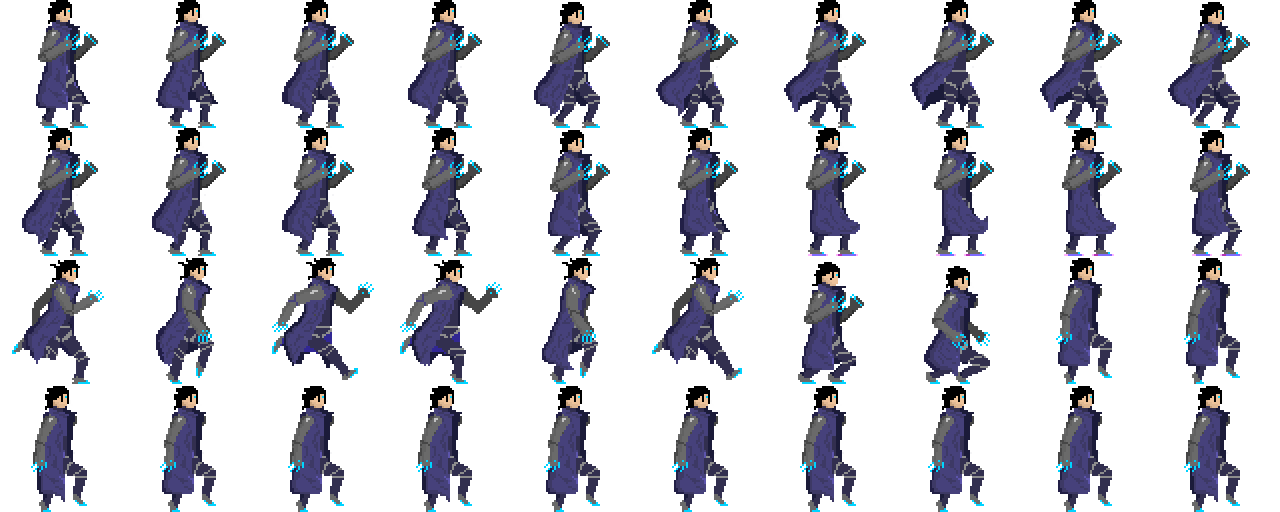
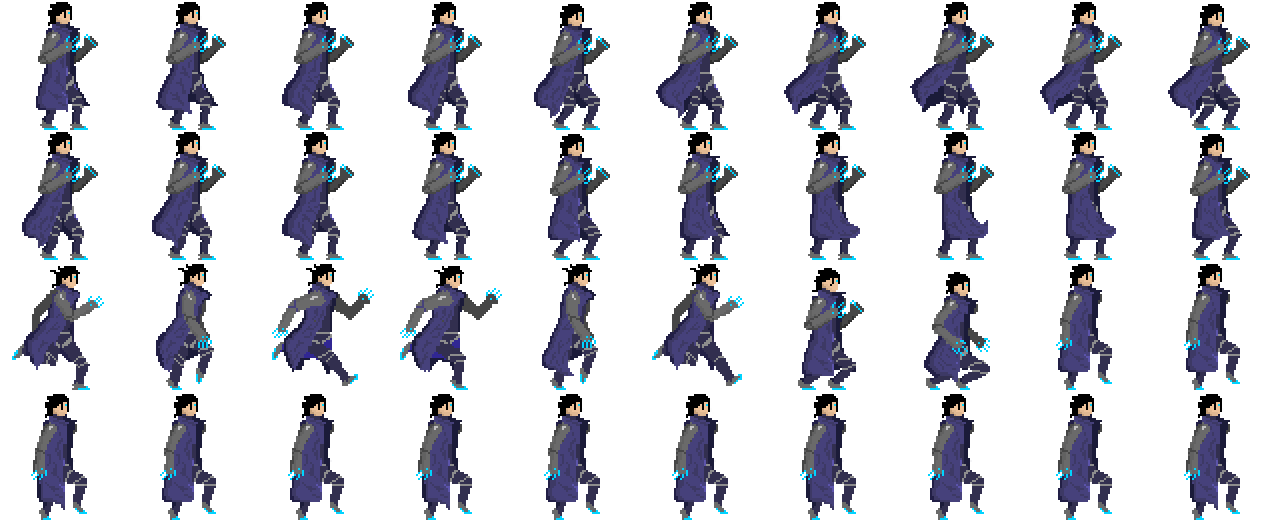
Pulse Mechanic implemented

diff --git a/Classes/Player.cpp b/Classes/Player.cpp
@@ -32,70 +32,77 @@ Retry::Player::Player(std::string path, cocos2d::Vec2 pos) {
 
 	// HACK: Read in data from file maybe?
 	Attack* atk = new Attack();
+	atk->setDamage(10);
 	atk->setDelay(0.0f);
-	atk->setDuration(1.0f);
+	atk->setDuration(0.3f);
 	atk->setRecovery(0.05f);
-	atk->setKnockBackAmount(3);
+	atk->setKnockBackAmount(1);
 	atk->setKnockBackDirection(Vec2(1, 0.25f));
 	atk->getHitBox()->addRect(Vec2(64, 64), cocos2d::Size(100, 50));
 	atk->getHitBox()->setParent(sprite);
 	attackList[0b00000001] = atk;
 
-	
+
 	atk = new Attack();
+	atk->setDamage(15);
 	atk->setDelay(0.1f);
 	atk->setDuration(0.3f);
 	atk->setRecovery(0.15f);
-	atk->setKnockBackAmount(10);
+	atk->setKnockBackAmount(5);
 	atk->setKnockBackDirection(Vec2(1, 0.25f));
 	atk->getHitBox()->addCircle(Vec2(96, 64), 24);
 	atk->getHitBox()->setParent(sprite);
 	attackList[0b00000010] = atk;
 
 	atk = new Attack();
+	atk->setDamage(12);
 	atk->setDelay(0.0f);
 	atk->setDuration(0.4f);
 	atk->setRecovery(0.05f);
-	atk->setKnockBackAmount(3);
+	atk->setKnockBackAmount(1);
 	atk->setKnockBackDirection(Vec2(1, 0.25f));
 	atk->getHitBox()->addRect(Vec2(64, 64), cocos2d::Size(150, 50));
 	atk->getHitBox()->setParent(sprite);
 	attackList[0b00000100] = atk;
 
 	atk = new Attack();
+	atk->setDamage(18);
 	atk->setDelay(0.1f);
 	atk->setDuration(0.5f);
 	atk->setRecovery(0.11f);
-	atk->setKnockBackAmount(10);
+	atk->setKnockBackAmount(4);
 	atk->setKnockBackDirection(Vec2(1, 0.5f));
 	atk->getHitBox()->addCircle(Vec2(96, 64), 32);
 	atk->getHitBox()->setParent(sprite);
 	attackList[0b00001000] = atk;
 
 	atk = new Attack();
+	atk->setDamage(20);
 	atk->setDelay(0.0f);
 	atk->setDuration(0.5f);
 	atk->setRecovery(0.25f);
-	atk->setKnockBackAmount(6);
+	atk->setKnockBackAmount(4);
 	atk->setKnockBackDirection(Vec2(0.25, 1));
 	atk->getHitBox()->addRect(Vec2(48, 64), cocos2d::Size(200, 90));
 	atk->getHitBox()->setParent(sprite);
 	attackList[0b00010000] = atk;
 
 	atk = new Attack();
+	atk->setDamage(25);
 	atk->setDelay(0.1f);
 	atk->setDuration(0.5f);
 	atk->setRecovery(0.35f);
-	atk->setKnockBackAmount(10);
+	atk->setKnockBackAmount(8);
 	atk->setKnockBackDirection(Vec2(1, 1));
 	atk->getHitBox()->addCapsule(Vec2(64, 64), Vec2(128, 64), 24);
 	atk->getHitBox()->setParent(sprite);
 	attackList[0b00100000] = atk;
 
 	atk = new Attack();
+	atk->setDamage(30);
 	atk->setDelay(0.15f);
-	atk->setDuration(0.3f);
-	atk->setRecovery(0.05f);
+	atk->setDuration(0.5f);
+	atk->setRecovery(0.15f);
 	atk->setKnockBackAmount(10);
 	atk->setKnockBackDirection(Vec2(1, 1));
 	atk->getHitBox()->addCapsule(Vec2(32, 64), cocos2d::Size(112, 64), 32);
@@ -103,6 +110,7 @@ Retry::Player::Player(std::string path, cocos2d::Vec2 pos) {
 	attackList[0b01000000] = atk;
 
 	atk = new Attack();
+	atk->setDamage(25);
 	atk->setDelay(0.2f);
 	atk->setDuration(0.5f);
 	atk->setRecovery(0.4f);
@@ -113,6 +121,7 @@ Retry::Player::Player(std::string path, cocos2d::Vec2 pos) {
 	attackList[0b10000000] = atk;
 
 	sideMoveSpeed = 700;
+	timeToMaxSpeed = 0.1f;
 }
 
 void Retry::Player::update(const float& delta) {
@@ -141,6 +150,11 @@ void Retry::Player::update(const float& delta) {
 
 	invincibilityTimer -= delta;
 	attackTimer -= delta;
+	if (pulseCooldown > 0) pulseCooldown -= delta;
+	else if (health < maxHealth * 0.15f) isPulse = false;
+
+	if (Keyboard::isKeyDown(KeyCode::SHIFT) || Controller::isButtonDown(ControllerButton::B))
+		isPulse = !isPulse;
 }
 
 void Player::updateAnimations(const float& delta) {
@@ -161,6 +175,8 @@ void Player::updateAnimations(const float& delta) {
 }
 
 void Player::performSideMovement(const float & delta) {
+
+	sideMoveSpeed = getMode() == COOLDOWN ? 400 : 700;
 
 	if (isActionPressed("left") != isActionPressed("right")) {
 		acceleration.x = (isActionPressed("left") ? -1 : 1) * sideMoveSpeed / timeToMaxSpeed / (!onGround ? (velocity.y > 100 ? 5.0f : 3.0f) : 1);
@@ -186,6 +202,15 @@ void Player::performJump(const float & delta) {
 			velocity.x *= 0.2f;
 		}
 	}
+}
+
+void Player::updatePulseMode(const float & delta) {
+
+
+
+
+
+
 }
 
 void Retry::Player::updateActionBuffer(const float& delta) {
@@ -266,6 +291,37 @@ void Player::removeButtonFromMapping(const std::string &action, const Retry::Con
 			keyMap->erase(keyMap->begin() + i);
 			return;
 		}
+	}
+}
+
+void Player::doAttackOnActor(Actor * actor) {
+	if (getCurrentAttack()) {
+		float damage = -abs(getCurrentAttack()->getDamage());
+
+		Vec2 kb = getCurrentAttack()->getKnockBackDirection() * getCurrentAttack()->getKnockBackAmount() * 100;
+		kb.x = sprite->isFlippedX() ? -kb.x : kb.x;
+		if (kb.y > 0) {
+			actor->doJump++;
+			actor->onGround = false;
+		}
+
+		if (currentAttackKey & 0xF0) {
+			if (getMode() == PULSE) {
+				this->adjustHealth(damage * 0.5f);
+				damage *= pulseDamageBoost;
+				kb = kb * pulseKnockbackBoost;
+				if (health < maxHealth * 0.15f)
+					pulseCooldown = pulseCooldownTimer;
+			} else if (getMode() == REST) {
+				this->adjustHealth(-damage * 0.5f);
+				if (health > maxHealth * 0.85f)
+					pulseCooldown = pulseCooldownTimer;
+			}
+		}
+
+		actor->adjustHealth(damage);
+		actor->setVelocity(kb);
+		actor->invincibilityTimer = getCurrentAttack()->getDuration();
 	}
 }
 

diff --git a/Classes/MainScene.cpp b/Classes/MainScene.cpp
@@ -101,6 +101,14 @@ bool MainScene::init() {
 	// ADD ALL GUI AND ACTORS BEFORE HERE
 	this->scheduleUpdate();
 
+	cocos2d::Label* label = cocos2d::Label::create();
+	label->setString("REST");
+	label->setPosition(Vec2(100, 700));
+	label->setScale(5);
+	label->setName("PULSEMODE");
+
+	gui->addChild(label);
+
 	for (auto i : gui->getChildren())
 		i->setPosition(i->getPosition() - cocos2d::Director::getInstance()->getVisibleSize() / 2);
 
@@ -149,7 +157,7 @@ void MainScene::update(float delta) {
 	if (Keyboard::isKeyDown(KeyCode::F2) || Controller::isButtonDown(ControllerButton::LEFT_BUMPER))
 		toggleDebug();
 
-	Retry::Config::setDebug(Controller::isAxisPressed(ControllerButton::LEFT_TRIGGER) || Keyboard::isKeyPressed(KeyCode::SHIFT));
+	Retry::Config::setDebug(Controller::isAxisPressed(ControllerButton::LEFT_TRIGGER) || Keyboard::isKeyPressed(KeyCode::CAPS_LOCK));
 
 	if (Keyboard::isKeyPressed(KeyCode::LEFT_ARROW) || Controller::isAxisPressed(ControllerButton::RIGHT_STICK_LEFT))
 		enemy->bufferAction("left");
@@ -192,13 +200,16 @@ void MainScene::update(float delta) {
 			dynamic_cast<cocos2d::GLViewImpl*>(cocos2d::Director::getInstance()->getOpenGLView())->setFullscreen();
 	}
 
+	std::string lmao = player->getMode() == 0 ? "REST" : player->getMode() == 1 ? "PULSE" : "COOLDOWN";
+	dynamic_cast<cocos2d::Label*>(gui->getChildByName("PULSEMODE"))->setString(lmao);
+
 	Retry::Camera::transformUI(gui);
 }
 
 void MainScene::initPlayer(cocos2d::Vec2 position) {
 	player = new Retry::Player("cybercop.png", position);
 
-	const cocos2d::Vec2 tileSize(128, 128);
+	const cocos2d::Vec2 tileSize(128, 130);
 
 	player->initAnimation("run", "cybercop.png", cocos2d::Vec2(0, 2), tileSize, 6);
 	player->initAnimation("idle", "cybercop.png", cocos2d::Vec2(0, 0), tileSize, 20);

diff --git a/Classes/Player.h b/Classes/Player.h
@@ -18,6 +18,12 @@ struct KeyMap {
 namespace Retry
 {
 
+enum PulseMode : char {
+	REST,
+	PULSE,
+	COOLDOWN
+};
+
 class Player : public Actor
 {
 public:
@@ -34,7 +40,10 @@ public:
 	void removeButtonFromMapping(const std::string &action, const Retry::KeyCode &button);
 	void removeButtonFromMapping(const std::string &action, const Retry::MouseButton &button);
 	void removeButtonFromMapping(const std::string &action, const Retry::ControllerButton &button);
+
+	virtual void doAttackOnActor(Actor* actor) override;
 	
+	char getMode() { return pulseCooldown > 0 ? COOLDOWN : isPulse ? PULSE : REST; }
 
 private:
 	std::unordered_map<std::string, KeyMap> actionMapping;
@@ -44,7 +53,17 @@ private:
 	void performSideMovement(const float& delta) override;
 
 	void performJump(const float& delta) override;
+
+	void updatePulseMode(const float& delta);
+
+	bool isPulse = false;
+
+	float pulseCooldown = 0;
+	float pulseCooldownTimer = 3.0f;
+
+	float pulseDamageBoost = 1.5f;
+
+	float pulseKnockbackBoost = 1.5f;
 };
 
 }
-

diff --git a/Classes/Entity.cpp b/Classes/Entity.cpp
@@ -58,8 +58,8 @@ void Entity::initAnimation(std::string action, std::string file, Vec2 startCell,
 	int width = sprite->getTexture()->getPixelsWide() / frameSize.x;
 	for (int i = 0; i < numFrames; i++)
 	{
-		Vec2 startPosition((((int) startCell.x + i) % width) * frameSize.x, (startCell.y + ((int) startCell.x + i) / width) * frameSize.y);
-		temp->addSpriteFrame(cocos2d::SpriteFrame::create(file.c_str(), Rect(startPosition, Size(frameSize))));
+		Vec2 startPosition((((int) startCell.x + i) % width) * frameSize.x, (startCell.y + ((int) startCell.x + i) / width) * (frameSize.y) + 2);
+		temp->addSpriteFrame(cocos2d::SpriteFrame::create(file.c_str(), Rect(startPosition, Size(frameSize) - Size(0,2))));
 	}
 	temp->setLoops(1);
 

diff --git a/Classes/Actor.h b/Classes/Actor.h
@@ -31,7 +31,7 @@ public:
 
 	bool isAttackCollidingWith(Actor* body);
 
-	void doAttackOnActor(Actor* actor);
+	virtual void doAttackOnActor(Actor* actor);
 
 	// GETTERS AND SETTERS
 	float getMaxJumpHeight() const { return maxJumpHeight; }
@@ -72,7 +72,7 @@ protected:
 	float timeToMaxJumpHeight = 0.65f;
 
 	float sideMoveSpeed = 250;
-	float timeToMaxSpeed = 0.1f;
+	float timeToMaxSpeed = 0.4f;
 
 	int doJump = 0;
 	bool onGround = false;
@@ -106,6 +106,8 @@ protected:
 	std::unordered_map<char, Attack*> attackList;
 
 	float attackTimer = 0;
+
+	friend class Player;
 };
 
 class Attack {

diff --git a/Classes/CollisionBody.cpp b/Classes/CollisionBody.cpp
@@ -347,6 +347,7 @@ CollisionRect worldSpaceRect(const cocos2d::Node* p, const CollisionRect &c) {
 	for (cocos2d::Node* n = (cocos2d::Node*) p; n != nullptr; n = n->getParent()) {
 		totalScale *= n->getScale();
 	}
+	totalScale = totalScale / cocos2d::Director::getInstance()->getRunningScene()->getScale();
 
 	newShape.size = c.size * totalScale;
 	newShape.rotation = -p->getParent()->getRotation() * 3.1415 / 180;

diff --git a/Classes/CameraManager.cpp b/Classes/CameraManager.cpp
@@ -2,6 +2,8 @@
 
 #include "GameSettings.h"
 
+#include "KeyboardManager.h"
+
 namespace Retry {
 
 PerlinNoise Camera::perlin = PerlinNoise(128);
@@ -96,6 +98,7 @@ void Camera::update(float delta) {
 	moveBy((targetPoint - position) * delta / timeToTarget);
 
 	camera->setPosition(position * camera->getParent()->getScale() + offset);
+
 	camera->setRotation(angle);
 
 	addTrauma(-1 * delta);

diff --git a/Classes/CollisionBody.h b/Classes/CollisionBody.h
@@ -48,7 +48,7 @@ public:
 
 	Rect getBoundingBox();
 
-	void setTestPosition(Vec2 pos);
+	static void setTestPosition(Vec2 pos);
 private:
 	cocos2d::DrawNode* hitBox;
 
